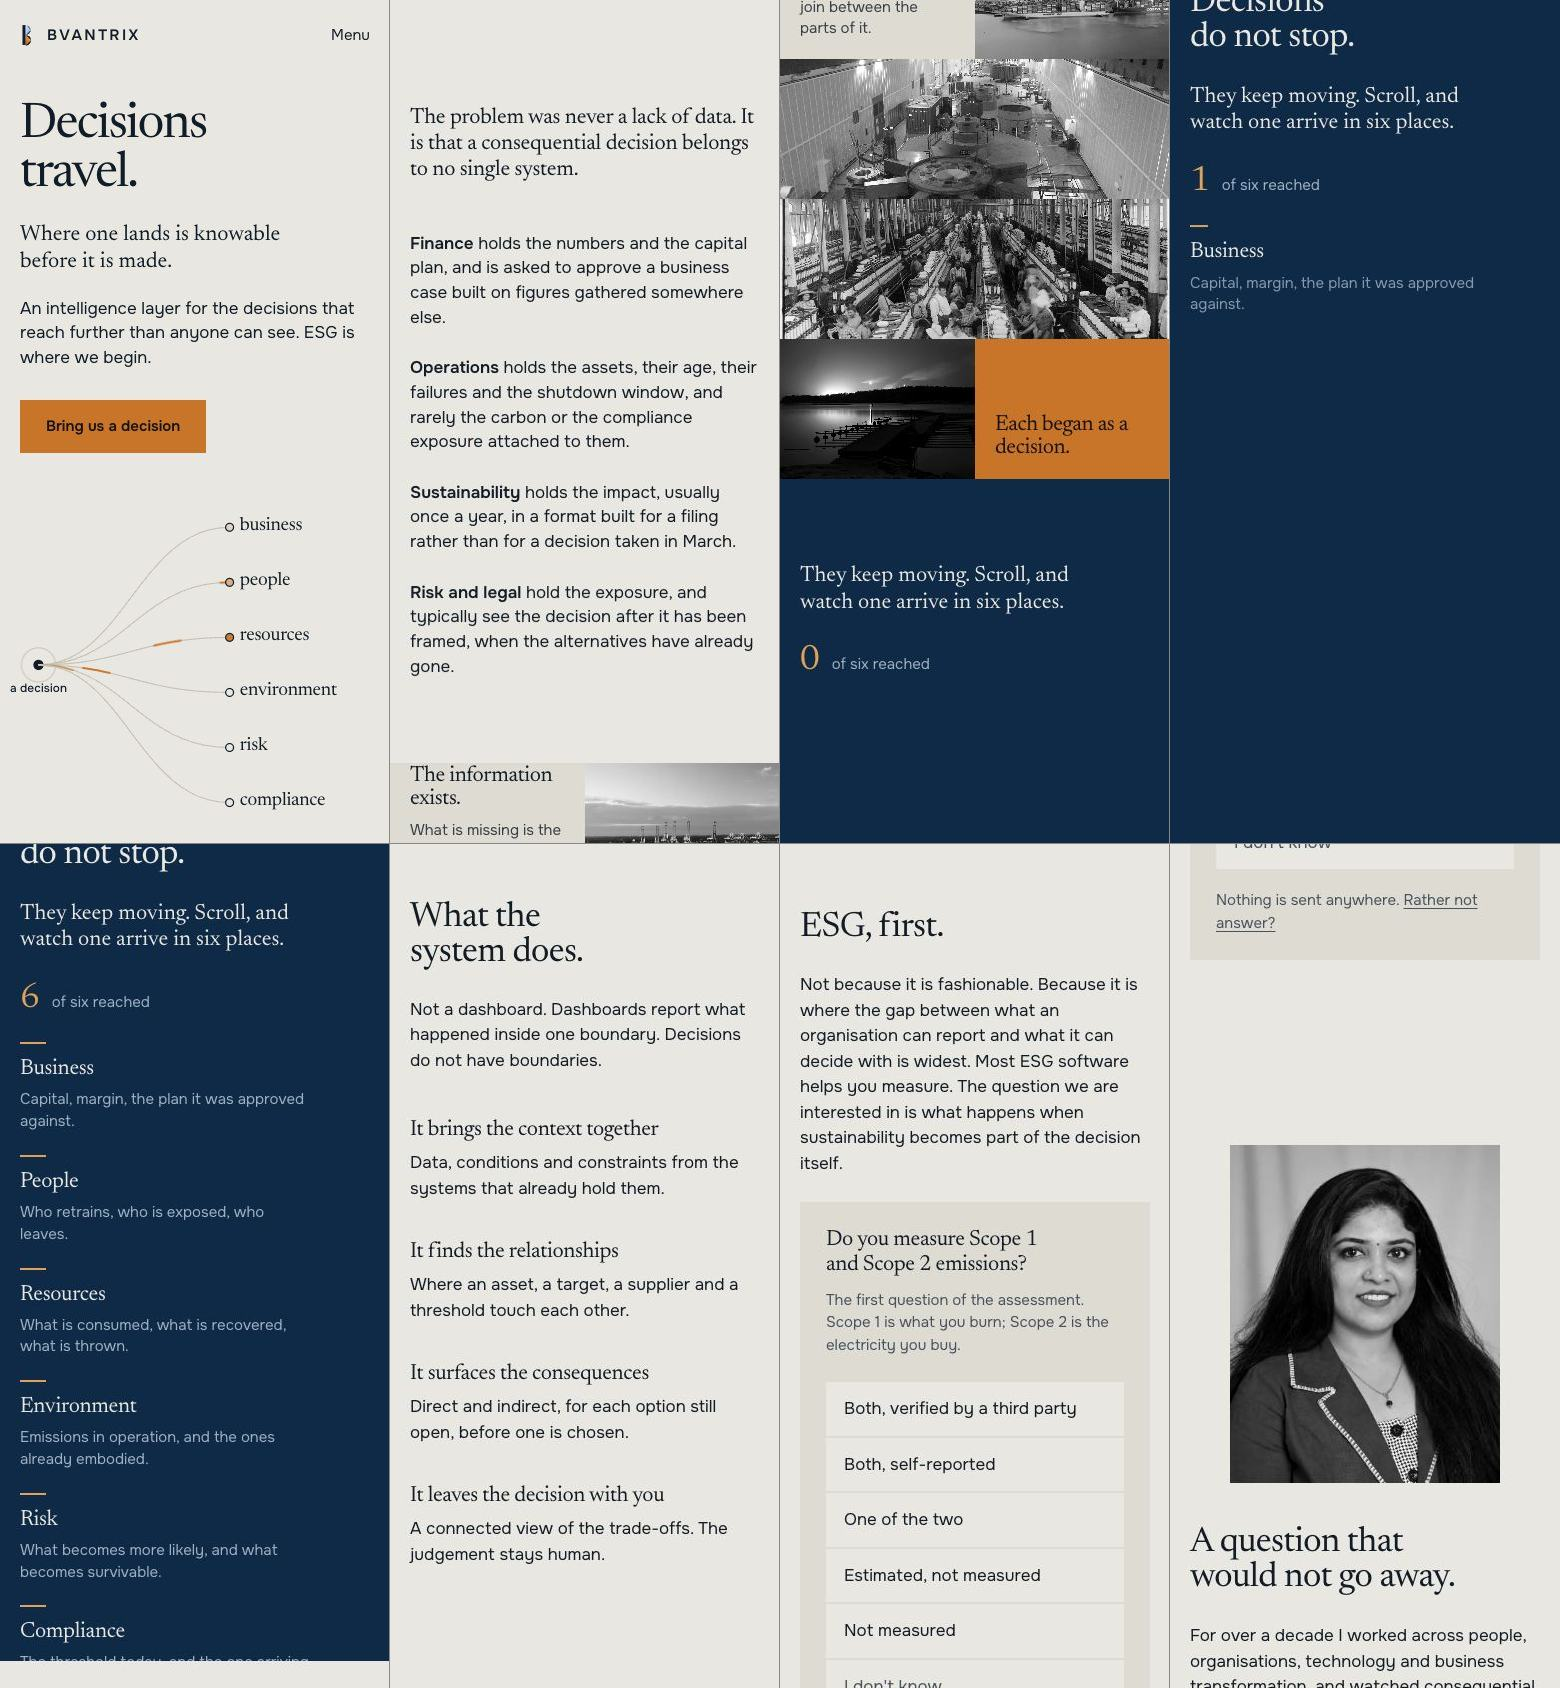
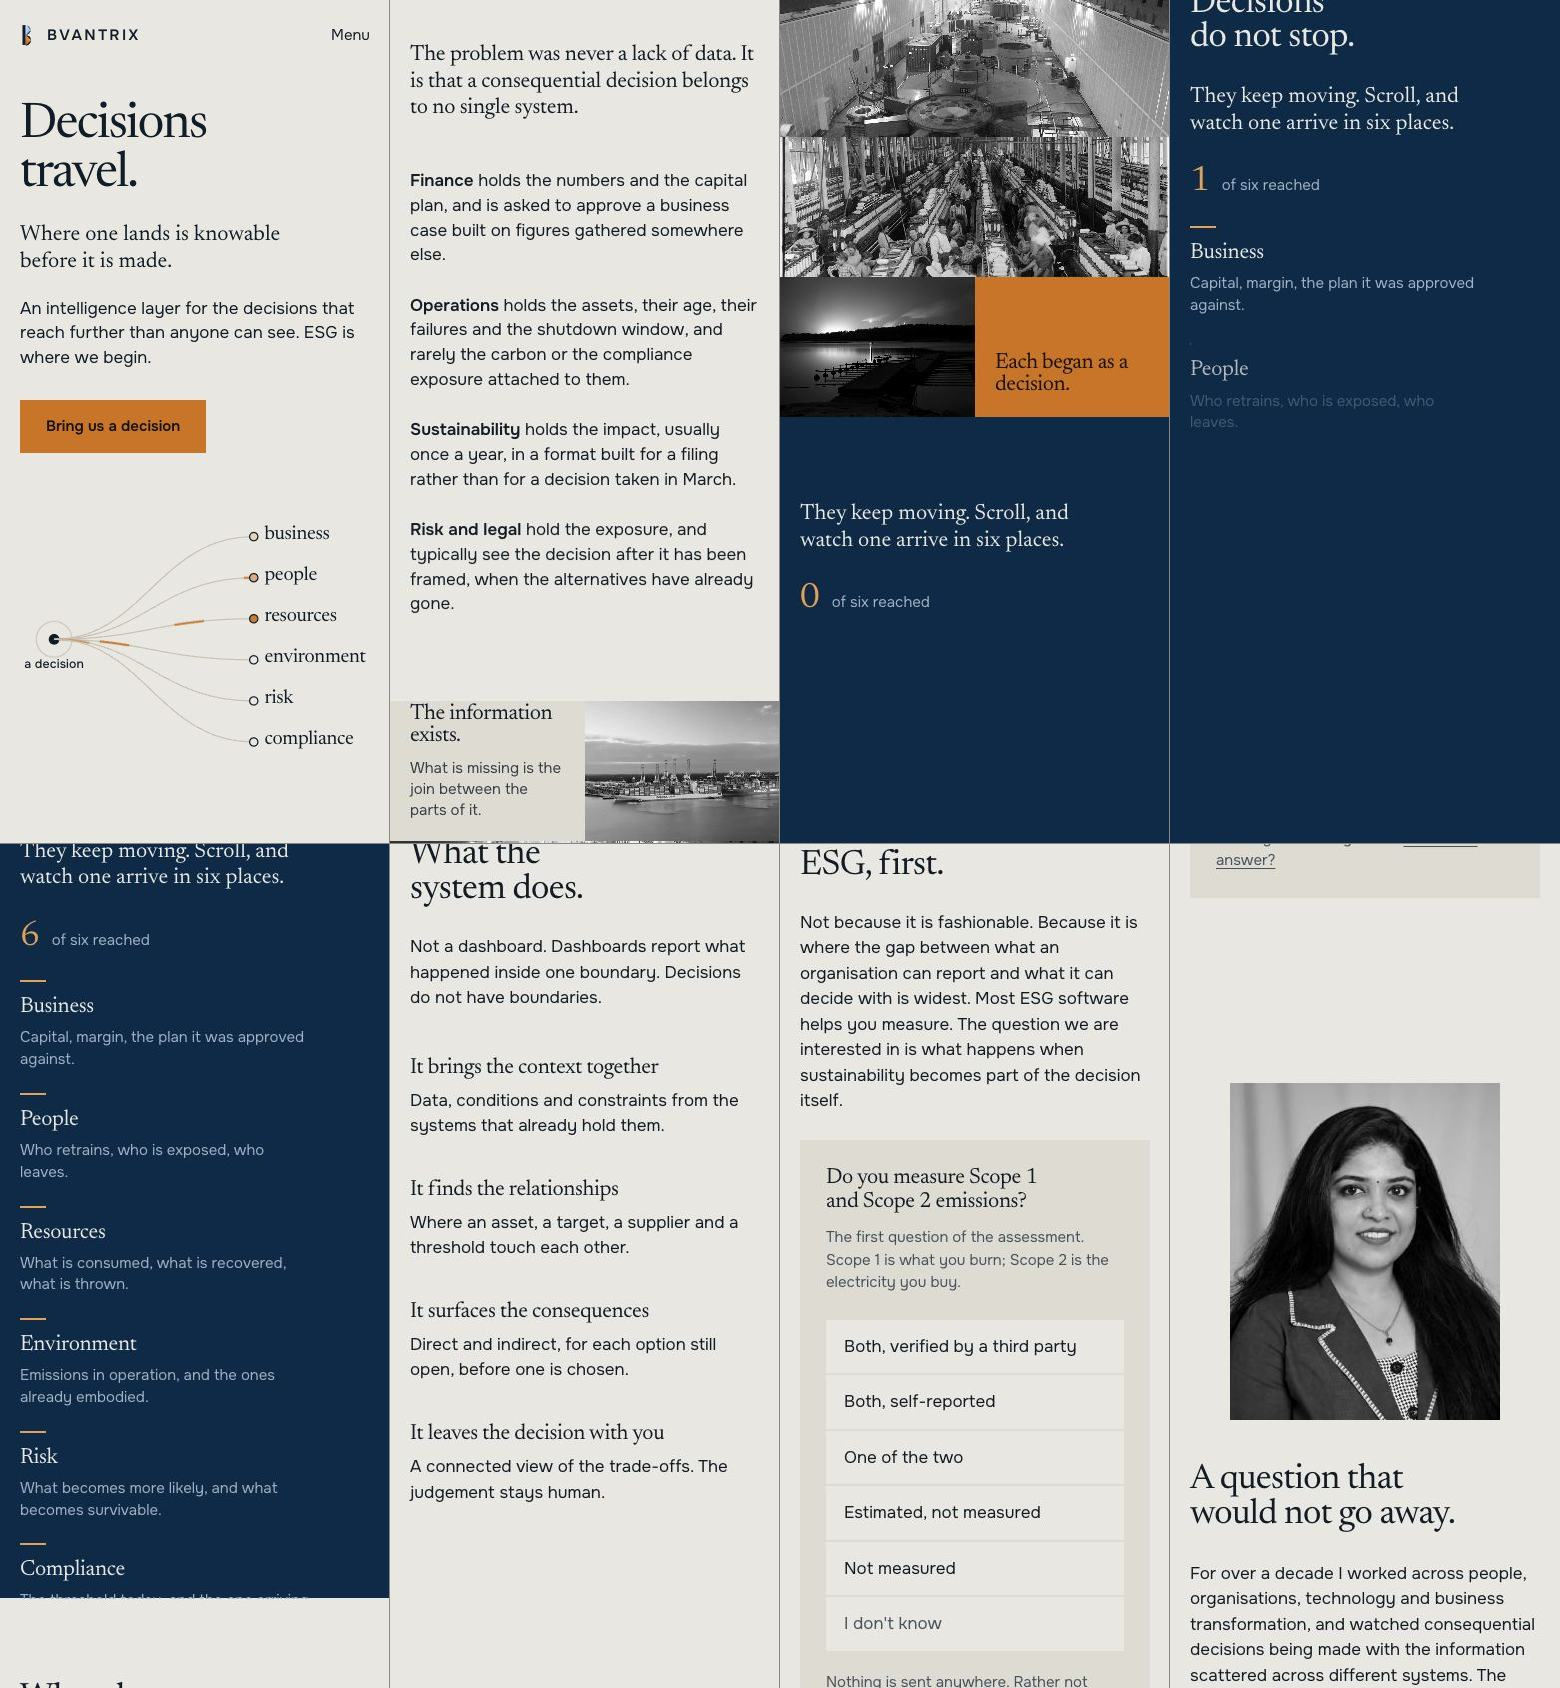
Stop invisible text reserving a blank strip in the hero
The flow diagram's box was sized to fit its hover notes, which sit at
opacity 0 until a lane is pointed at. The longest note is 326 units
wide against 129 for the longest visible label, so 202 units -- 173px
on screen -- of the hero's right side was blank page held open for
text nobody can see. That was the band in the report.

The notes now wrap onto two lines, and the box is cropped to the
labels that are always visible. A note is allowed to run a little past
that edge into the page margin when it appears; at 1440px it still
clears the viewport by 18px.

Cropping changed the drawing's proportions, so the six lanes are now
100 units apart rather than 140, which keeps the box matching the
shape of the column it sits in -- otherwise the figure would letterbox
and put the blank strip straight back.

Stacked on a phone the same labels are drawn much larger and need a
wider box, so the narrow layout gets an alternate viewBox.

Measured: right gap 173px -> 8px, left 7px, so the drawing sits in
even margins. Fills 98% of its column at 1366px. Bands stay equal
(141/142 at 1440x900, 60/60 at 1366x680). Phone box fits its drawing
with 10px padding on every side. No horizontal scroll anywhere.

diff --git a/index.html b/index.html
@@ -25,7 +25,7 @@
 <link rel="preconnect" href="https://fonts.gstatic.com" crossorigin>
 <link rel="stylesheet" href="https://fonts.googleapis.com/css2?family=Newsreader:opsz,wght@6..72,300;6..72,400;6..72,500&family=Onest:wght@400;500;600&display=swap">
 <link rel="stylesheet" href="assets/scenes/stage.css">
-<link rel="stylesheet" href="css/style.css?v=10.6">
+<link rel="stylesheet" href="css/style.css?v=10.8">
 </head>
 <body>
 
@@ -94,66 +94,87 @@
   </div>
 
   <figure class="flowfig" aria-label="A decision reaching six places">
-    <svg viewBox="57 24 890 750" role="list">
+    <!-- The box is cropped to the labels you can always see. The hover notes are
+         allowed to run past its right edge into the page margin; sizing the box to
+         them reserved 173px of blank page for text at opacity 0. -->
+    <svg viewBox="55 17 698 587" data-vb-wide="21 22 852 566" role="list">
       <!-- the decision, where every line begins -->
       <g class="source">
-        <circle class="source-ring" cx="104" cy="390" r="42"/>
-        <circle class="source-dot" cx="104" cy="390" r="8"/>
-        <text class="source-label" x="104" y="460">a decision</text>
+        <circle class="source-ring" cx="104" cy="310" r="42"/>
+        <circle class="source-dot" cx="104" cy="310" r="8"/>
+        <text class="source-label" x="104" y="380">a decision</text>
       </g>
 
       <g class="lane" style="--i:0" tabindex="0" role="listitem"
-         aria-label="business: capital, margin, the plan it was approved against">
-        <path class="lane-wire" d="M104 390 C 320 390, 360 40, 590 40"/>
-        <path class="lane-pulse" d="M104 390 C 320 390, 360 40, 590 40" pathLength="100"/>
-        <circle class="lane-dot" cx="590" cy="40" r="6"/>
-        <text class="lane-name" x="616" y="46">business</text>
-        <text class="lane-note" x="616" y="68">capital, margin, the plan it was approved against</text>
+         aria-label="business: capital, margin, and the plan it was approved against">
+        <path class="lane-wire" d="M104 310 C 320 310, 360 60, 590 60"/>
+        <path class="lane-pulse" d="M104 310 C 320 310, 360 60, 590 60" pathLength="100"/>
+        <circle class="lane-dot" cx="590" cy="60" r="6"/>
+        <text class="lane-name" x="616" y="66">business</text>
+        <text class="lane-note" x="616" y="84" aria-hidden="true">
+          <tspan x="616">capital, margin, and the plan</tspan>
+          <tspan x="616" dy="16">it was approved against</tspan>
+        </text>
       </g>
 
       <g class="lane" style="--i:1" tabindex="0" role="listitem"
          aria-label="people: who retrains, who is exposed, who leaves">
-        <path class="lane-wire" d="M104 390 C 320 390, 360 180, 590 180"/>
-        <path class="lane-pulse" d="M104 390 C 320 390, 360 180, 590 180" pathLength="100"/>
-        <circle class="lane-dot" cx="590" cy="180" r="6"/>
-        <text class="lane-name" x="616" y="186">people</text>
-        <text class="lane-note" x="616" y="208">who retrains, who is exposed, who leaves</text>
+        <path class="lane-wire" d="M104 310 C 320 310, 360 160, 590 160"/>
+        <path class="lane-pulse" d="M104 310 C 320 310, 360 160, 590 160" pathLength="100"/>
+        <circle class="lane-dot" cx="590" cy="160" r="6"/>
+        <text class="lane-name" x="616" y="166">people</text>
+        <text class="lane-note" x="616" y="184" aria-hidden="true">
+          <tspan x="616">who retrains, who is exposed,</tspan>
+          <tspan x="616" dy="16">who leaves</tspan>
+        </text>
       </g>
 
       <g class="lane" style="--i:2" tabindex="0" role="listitem"
          aria-label="resources: what is consumed, recovered, or thrown">
-        <path class="lane-wire" d="M104 390 C 320 390, 360 320, 590 320"/>
-        <path class="lane-pulse" d="M104 390 C 320 390, 360 320, 590 320" pathLength="100"/>
-        <circle class="lane-dot" cx="590" cy="320" r="6"/>
-        <text class="lane-name" x="616" y="326">resources</text>
-        <text class="lane-note" x="616" y="348">what is consumed, recovered, or thrown</text>
+        <path class="lane-wire" d="M104 310 C 320 310, 360 260, 590 260"/>
+        <path class="lane-pulse" d="M104 310 C 320 310, 360 260, 590 260" pathLength="100"/>
+        <circle class="lane-dot" cx="590" cy="260" r="6"/>
+        <text class="lane-name" x="616" y="266">resources</text>
+        <text class="lane-note" x="616" y="284" aria-hidden="true">
+          <tspan x="616">what is consumed, recovered,</tspan>
+          <tspan x="616" dy="16">or thrown</tspan>
+        </text>
       </g>
 
       <g class="lane" style="--i:3" tabindex="0" role="listitem"
          aria-label="environment: emissions in operation, and those already embodied">
-        <path class="lane-wire" d="M104 390 C 320 390, 360 460, 590 460"/>
-        <path class="lane-pulse" d="M104 390 C 320 390, 360 460, 590 460" pathLength="100"/>
-        <circle class="lane-dot" cx="590" cy="460" r="6"/>
-        <text class="lane-name" x="616" y="466">environment</text>
-        <text class="lane-note" x="616" y="488">emissions in operation, and those already embodied</text>
+        <path class="lane-wire" d="M104 310 C 320 310, 360 360, 590 360"/>
+        <path class="lane-pulse" d="M104 310 C 320 310, 360 360, 590 360" pathLength="100"/>
+        <circle class="lane-dot" cx="590" cy="360" r="6"/>
+        <text class="lane-name" x="616" y="366">environment</text>
+        <text class="lane-note" x="616" y="384" aria-hidden="true">
+          <tspan x="616">emissions in operation, and</tspan>
+          <tspan x="616" dy="16">those already embodied</tspan>
+        </text>
       </g>
 
       <g class="lane" style="--i:4" tabindex="0" role="listitem"
          aria-label="risk: what becomes more likely, and what survivable">
-        <path class="lane-wire" d="M104 390 C 320 390, 360 600, 590 600"/>
-        <path class="lane-pulse" d="M104 390 C 320 390, 360 600, 590 600" pathLength="100"/>
-        <circle class="lane-dot" cx="590" cy="600" r="6"/>
-        <text class="lane-name" x="616" y="606">risk</text>
-        <text class="lane-note" x="616" y="628">what becomes more likely, and what survivable</text>
+        <path class="lane-wire" d="M104 310 C 320 310, 360 460, 590 460"/>
+        <path class="lane-pulse" d="M104 310 C 320 310, 360 460, 590 460" pathLength="100"/>
+        <circle class="lane-dot" cx="590" cy="460" r="6"/>
+        <text class="lane-name" x="616" y="466">risk</text>
+        <text class="lane-note" x="616" y="484" aria-hidden="true">
+          <tspan x="616">what becomes more likely,</tspan>
+          <tspan x="616" dy="16">and what survivable</tspan>
+        </text>
       </g>
 
       <g class="lane" style="--i:5" tabindex="0" role="listitem"
          aria-label="compliance: the threshold today, and the one arriving">
-        <path class="lane-wire" d="M104 390 C 320 390, 360 740, 590 740"/>
-        <path class="lane-pulse" d="M104 390 C 320 390, 360 740, 590 740" pathLength="100"/>
-        <circle class="lane-dot" cx="590" cy="740" r="6"/>
-        <text class="lane-name" x="616" y="746">compliance</text>
-        <text class="lane-note" x="616" y="768">the threshold today, and the one arriving</text>
+        <path class="lane-wire" d="M104 310 C 320 310, 360 560, 590 560"/>
+        <path class="lane-pulse" d="M104 310 C 320 310, 360 560, 590 560" pathLength="100"/>
+        <circle class="lane-dot" cx="590" cy="560" r="6"/>
+        <text class="lane-name" x="616" y="566">compliance</text>
+        <text class="lane-note" x="616" y="584" aria-hidden="true">
+          <tspan x="616">the threshold today,</tspan>
+          <tspan x="616" dy="16">and the one arriving</tspan>
+        </text>
       </g>
 
     </svg>
@@ -582,6 +603,6 @@
 <script src="https://cdn.jsdelivr.net/npm/gsap@3.15.0/dist/ScrollTrigger.min.js"></script>
 <script src="assets/scenes/stage.js"></script>
 <script src="assets/scenes/consequences.js?v=1.1"></script>
-<script src="js/main.js?v=8.0"></script>
+<script src="js/main.js?v=8.1"></script>
 </body>
 </html>

diff --git a/js/main.js b/js/main.js
@@ -66,6 +66,20 @@ var BVANTRIX_EMAIL    = 'info@bvantrix.com';
     });
     window.addEventListener('resize', function () { if (window.innerWidth > 860) set(false); });
   }
+
+  /* The flow diagram's box is cropped tight to its labels so the hero has no
+     blank strip down its right side. Stacked on a phone the same labels are
+     drawn much larger to stay legible, and at that size they need a wider box
+     to sit in -- so the narrow layout gets the alternate viewBox instead. */
+  var flow = document.querySelector('.flowfig svg[data-vb-wide]');
+  if (flow) {
+    var tight = flow.getAttribute('viewBox');
+    var wide  = flow.getAttribute('data-vb-wide');
+    var mq    = window.matchMedia('(max-width: 860px)');
+    var fit   = function () { flow.setAttribute('viewBox', mq.matches ? wide : tight); };
+    fit();
+    (mq.addEventListener ? mq.addEventListener('change', fit) : mq.addListener(fit));
+  }
 })();
 
 /* BVANTRIX, booking panel.

diff --git a/css/style.css b/css/style.css
@@ -832,7 +832,7 @@ html:not(.js) .tel-code select { font: inherit; border: 0; background: transpare
   fill: var(--ink); letter-spacing: -0.015em;
 }
 .lane-note {
-  font-family: var(--text); font-size: 13.5px;
+  font-family: var(--text); font-size: 12.5px;
   fill: var(--ink-2);
   opacity: 0;
   transition: opacity .32s ease;
